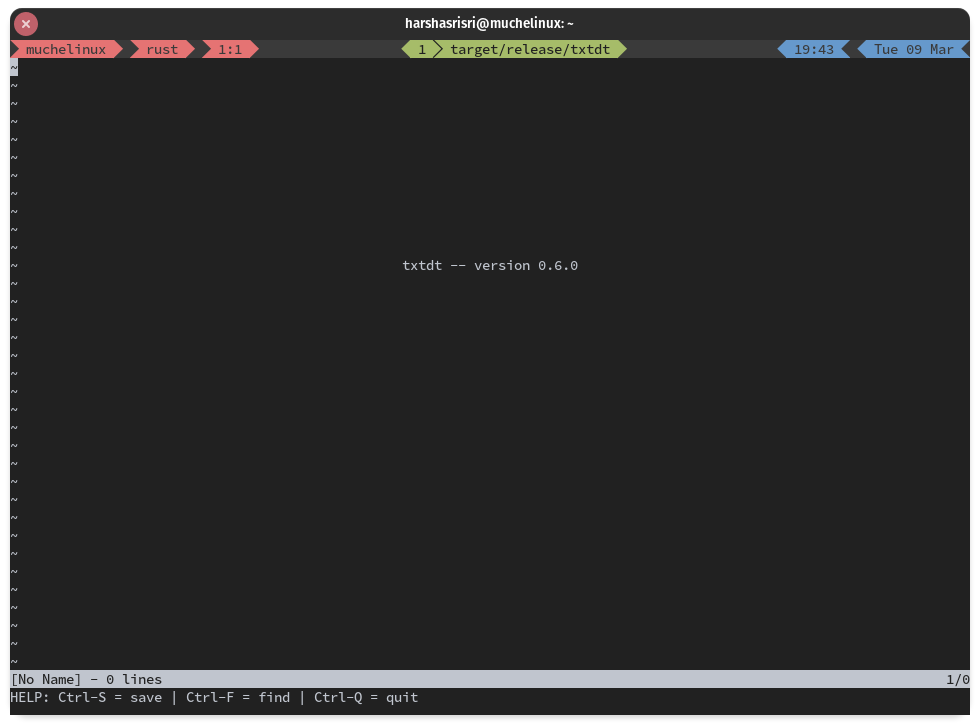
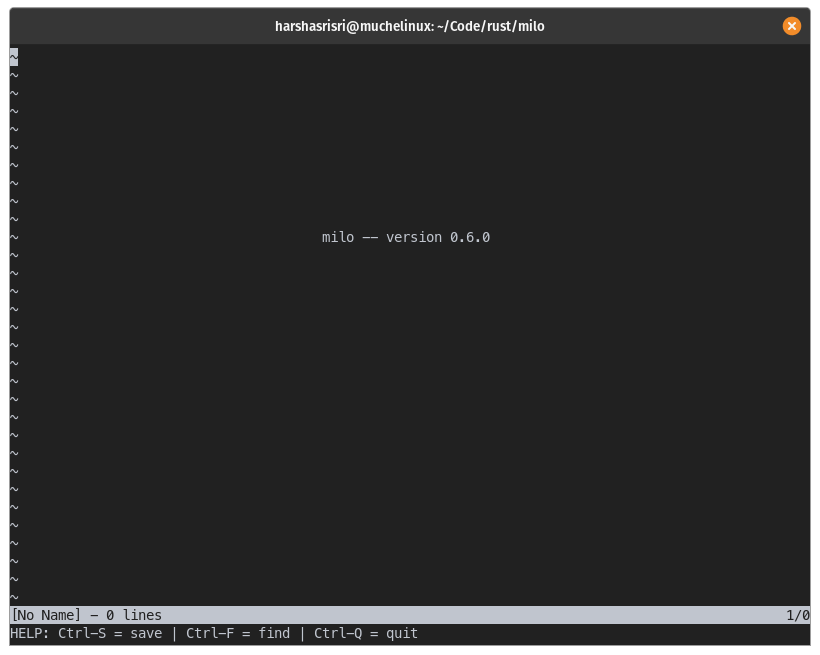
Meta - Change name to milo

Changed region(s): [[0.0, 0.0, 1.0, 1.0], [0.3963, 0.3359, 0.6098, 0.3969]]

diff --git a/src/main.rs b/src/main.rs
@@ -2,8 +2,8 @@ use std::fs::File;
 use std::io::Result;
 use std::io::{BufRead, BufReader};
 use std::time::Instant;
-use txtdt::buffer::Buffer;
-use txtdt::terminal::{Key, Motion, Terminal};
+use milo::buffer::Buffer;
+use milo::terminal::{Key, Motion, Terminal};
 
 const STATUS_HEIGHT: usize = 2; // 1 for Status bar. 1 for Status Message
 const TOTAL_QUIT_COUNT: usize = 4;

diff --git a/README.md b/README.md
@@ -1,6 +1,6 @@
-# txtdt
+# milo
 
-`txtdt` was born out of stumbling into [Challenging projects every programmer should try](https://web.eecs.utk.edu/~azh/blog/challengingprojects.html) while carrying an unscratched itch to build something substantial in Rust. 
+`milo` was born out of stumbling into [Challenging projects every programmer should try](https://web.eecs.utk.edu/~azh/blog/challengingprojects.html) while carrying an unscratched itch to build something substantial in Rust. 
 
 Fortunately, there is [kilo](https://viewsourcecode.org/snaptoken/kilo/index.html) which gives us a very nice walkthrough, although written in C, covering the design of a rudimentary text editor. This project joins the long list of wannabe text editors written in Rust.
 
